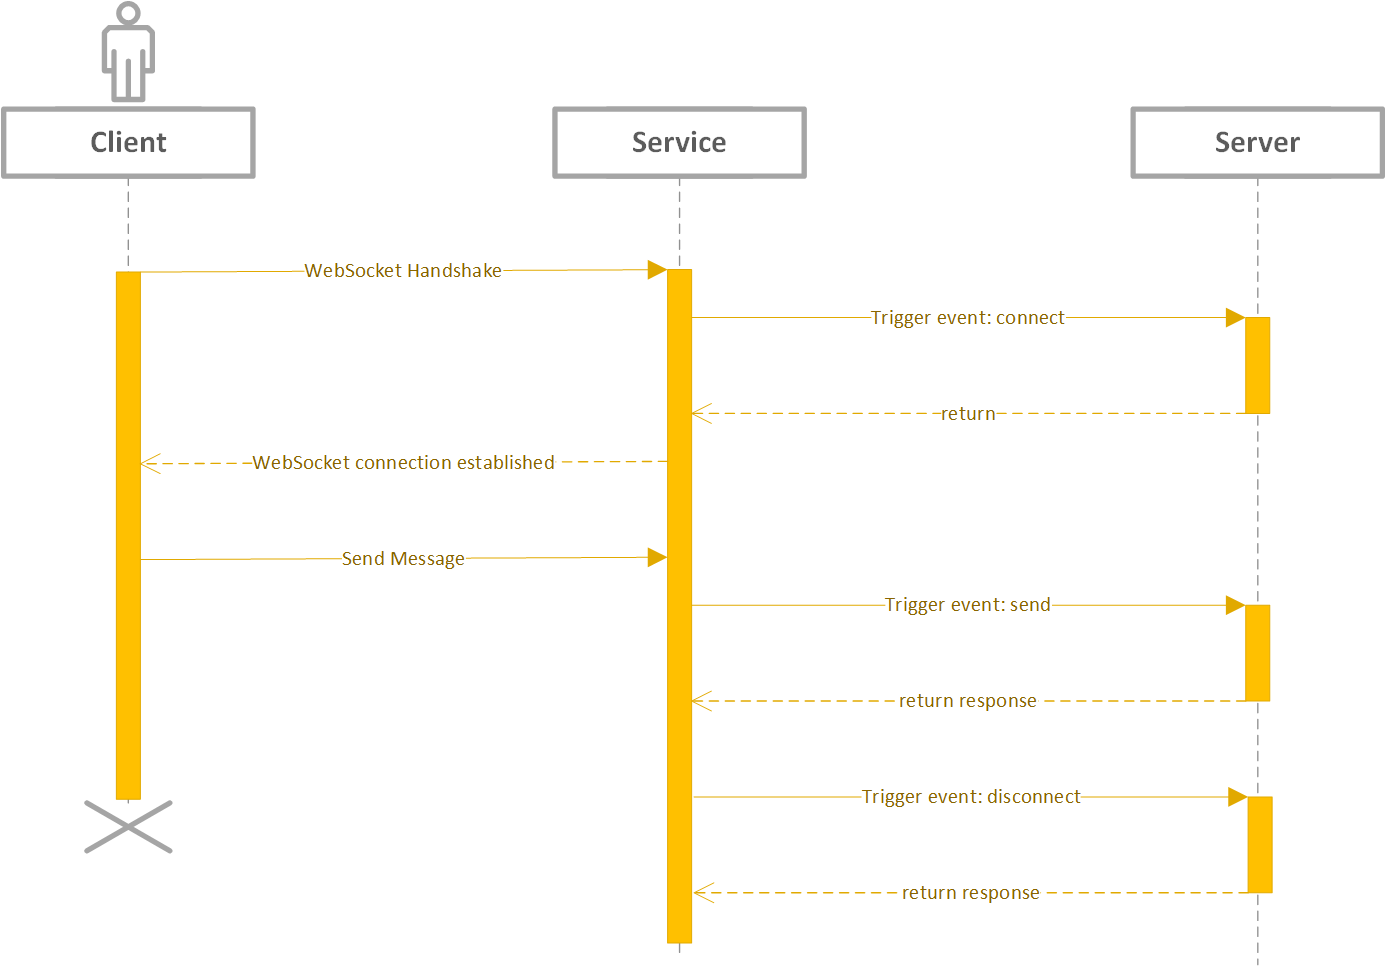
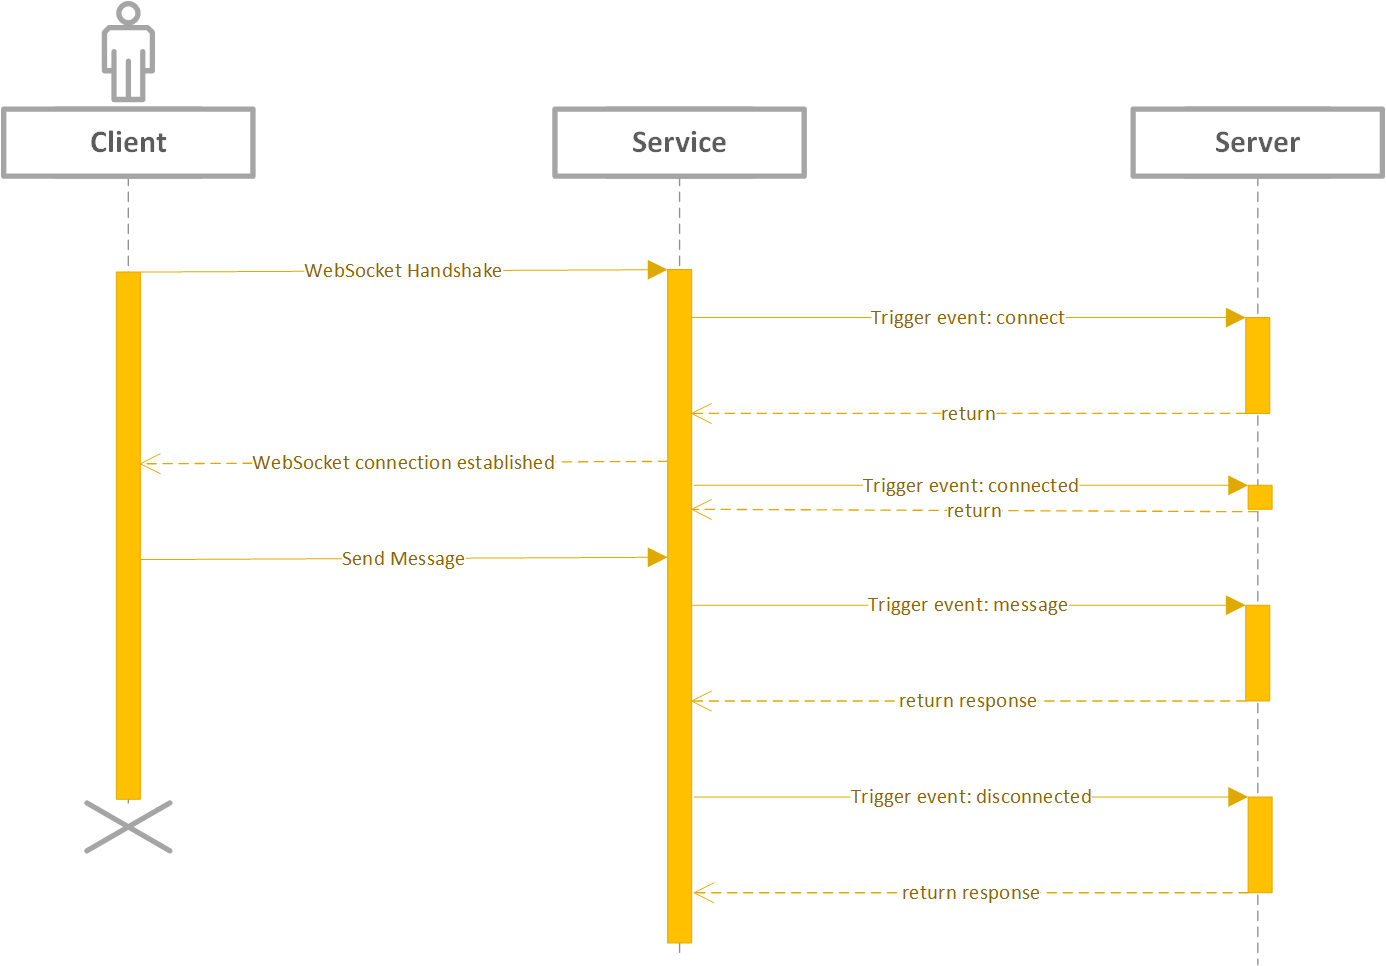
update event names

diff --git a/docs/specs/phase-1-simple-websocket-client.md b/docs/specs/phase-1-simple-websocket-client.md
@@ -22,7 +22,9 @@ Azure Web PubSub Service provides an easy way to publish/subscribe messages usin
     - [Client Auth](#client_auth)
 - [Server protocol](#server_protocol)
     - [Event handler](#event_handler)
+        - [CloudEvents HTTP protocol](./protocols/webpubsub.cloudevents.http.md)
     - [Connection manager](#connection_manager)
+        - [REST API protocol](./protocols/webpubsub.swagger.md)
 
 ## Terms
 * **Service**: Azure Web PubSub Service.
@@ -33,7 +35,7 @@ Azure Web PubSub Service provides an easy way to publish/subscribe messages usin
 
 * **Client Connection** and **ConnectionId**: A client connects to the `/client` endpoint, when connected, an unique `connectionId` is generated by the service as the unique identity of the client connection. Users can then manage the client connection using this `connectionId`. Details are described in [Client Protocol](#client_protocol) section.
 
-* **Client Events**: Events are created during the lifecycle of a client connection. For example, a simple WebSocket client connection creates an `on-connect` event when it tries to connect to the service, a `post-connect` event when it successfully connected to the service, a `message` event when it sends messages to the service, and a `post-disconnect` event when it disconnects from the service. Details about *client events* are illustrated in [Client Protocol](#client_protocol) section.
+* **Client Events**: Events are created during the lifecycle of a client connection. For example, a simple WebSocket client connection creates a `connect` event when it tries to connect to the service, a `connected` event when it successfully connected to the service, a `message` event when it sends messages to the service, and a `disconnected` event when it disconnects from the service. Details about *client events* are illustrated in [Client Protocol](#client_protocol) section.
 
 * **Event Handler**: The event handler contains the logic to handle the client events. Event handler needs to be registered and configured in the service through the portal or Azure CLI beforehand. Details are described in [Event Handler](#event_handler) section. The place to host the event handler logic is generally considered as the server-side.
 
@@ -51,13 +53,21 @@ A client connection connects to the `/client` endpoint of the service. In phase 
 A simple WebSocket client follows a client<->server architecture, as the below sequence diagram shows:
 ![Simple Client Sequence](../images/simple_client_sequence.png)
 
-1. When the client starts WebSocket handshake, the service tries to invoke the `on-connect` event handler (the server) for WebSocket handshake. Users can use this handler to interpret the WebSocket handshake, determine the subprotocol to use, auth the client, and join the client to some groups.
-2. When the client is succuessfully connected, the service invokes a `post-connect` event handler. It works as some notification and does not block the client from sending messages. Users can use this handler to do some data storage, and can response with messages sending to the client.
+1. When the client starts WebSocket handshake, the service tries to invoke the `connect` event handler (the server) for WebSocket handshake. Users can use this handler to interpret the WebSocket handshake, determine the subprotocol to use, auth the client, and join the client to some groups.
+2. When the client is succuessfully connected, the service invokes a `connected` event handler. It works as some notification and does not block the client from sending messages. Users can use this handler to do some data storage, and can response with messages sending to the client.
 2. When the client sends messages, the services triggers the `message` event to the event handler (the server) to handle the messages sent. This is a general event containing the messages sent in a WebSocket frame. User needs to dispatch the messages by their own inside this event handler.
-3. When the client disconnects, the service tries to trigger the `post-disconnect` event to the event handler (the server) once it detects the disconnect.
+3. When the client disconnects, the service tries to trigger the `disconnected` event to the event handler (the server) once it detects the disconnect.
 
-`on-connect`, `post-connect` and `post-disconnect` are called *system event*s. They are triggered by the service during the lifetime of the client connection. While `message` is called *user event*, that it is triggered by the client when the messages are sent. You may have noticed that for *system event*s we have a special pattern that the event is prefixed by `on-` or `post-`. We use `on-` and `post-` to define the property of the events. An event prefixed by `on-` is a blocking(synchronous) event that the service waits for the response of the event handler to do the next step. An event prefixed by `post-` is an unblocking(asynchronous) event that the service triggers the event handler in the background without blocking the next step.
-
+The events fall into 2 categories:
+* synchronous events (blocking)
+    Synchronous events block the client workflow. When such event trigger fails, the service drops the clients.
+    * `connect`
+    * `message`
+* asynchronous events (un-blocking)
+    Asynchronous events do not block the client workflow, it acts as some notification to the upstream event handler. When such event trigger fails, the service logs the error detail.
+    * `connected`
+    * `disconnected`
+    
 #### Scenarios:
 Such connection can be used in a typical client-server architecture, that the client sends messages to the server, and the server handles incoming messages using [Event Handlers](#event_handler). A typical usage would be [GraphQL Subscriptions](https://dgraph.io/docs/graphql/subscriptions/), and a sample can be found [here](). It can also be used when customers leverage existing [subprotocols](https://www.iana.org/assignments/websocket/websocket.xml) in their application logic, for example, `wamp` subprotocol. A sample usage can be found [here]().
 
@@ -93,7 +103,7 @@ In general, server protocol contains 2 roles:
 <a name="event_handler"></a>
 
 ### Event handler
-The event handler handles the upcoming client events. Event handlers need to be registered and configured in the service through portal or Azure CLI beforehand so that when a client event is triggered, the service can identify if the event is expected to be handled. In Phase 1, we use `PUSH` mode to invoke the event handler: that the event handler as the server side, exposes public accessible endpoint for the service to invoke when the event is triggered. It acts as a **webhook**. It leverages [CloudEvents HTTP protocol binding](https://github.com/cloudevents/spec/blob/v1.0.1/http-protocol-binding.md) and the detailed protocol is described in [webpubsub.cloudevents.http](./protocols/webpubsub.cloudevents.http.md), for every event, it formulates an HTTP POST request to the registered upstream and expects an HTTP response.
+The event handler handles the upcoming client events. Event handlers need to be registered and configured in the service through portal or Azure CLI beforehand so that when a client event is triggered, the service can identify if the event is expected to be handled. In Phase 1, we use `PUSH` mode to invoke the event handler: that the event handler as the server side, exposes public accessible endpoint for the service to invoke when the event is triggered. It acts as a **webhook**. It leverages [CloudEvents HTTP protocol binding](https://github.com/cloudevents/spec/blob/v1.0.1/http-protocol-binding.md) and the detailed protocol is described in [WebPubSub CloudEvents Protocol](./protocols/webpubsub.cloudevents.http.md), for every event, it formulates an HTTP POST request to the registered upstream and expects an HTTP response.
 ![Event PUSH](../images/event_push.png)
 
 <a name="connection_manager"></a>

diff --git a/docs/specs/phase-2-subprotocol.md b/docs/specs/phase-2-subprotocol.md
@@ -184,13 +184,15 @@ client2.onopen = e => {
 };
 ```
 ### Client events
-These group related actions generate 2 events each accordingly:
-`on-publish`
-`post-publish`
-`on-join`
-`post-join`
-`on-leave`
-`post-leave`
+These group related actions generate the following events:
+* Synchronous events
+    * `publish`
+    * `join`
+    * `leave`
+* Asynchronous events
+    * `published`
+    * `joined`
+    * `left`
 
 <a name="client_auth"></a>
 
@@ -213,7 +215,7 @@ Client roles only applies for the [`json.webpubsub.azure.v1` subprotocol](#comma
 
 Client roles can be assigned:
 1. when the client connects with an auth token, and 
-2. can be granted with the `on-connect` event handler, and also, 
+2. can be granted with the `connect` event handler, and also, 
 3. can be granted through [server protocol](#connection_manager).
 
 #### Client publish
@@ -222,16 +224,16 @@ The below graph describes the workflow when the client tries to publish messages
 ![Client Publish Workflow](../images/client_publish_workflow.png)
 
 When the client tries to publish messages to a group: 
-1. The service checks if the `on-publish` event is registered for the client,
+1. The service checks if the `publish` event is registered for the client,
 2. If not, a client with the role `webpubsub.group.publish` can publish.
 3. If the event is registered, the service invokes the event handler and respect the response of the event handler to decide if the action is allowed.
 4. The service publishes the message to the group
-5. If `post-publish` is registered, the service invokes the `post-publish` event handler.
+5. If `published` is registered, the service invokes the `published` event handler.
 
-Please note that **ONLY** **METADATA** for the `Publish` is sent to the `on-publish` event handler, the actual message to be published is not sent to the event handler.
+Please note that **ONLY** **METADATA** for the `Publish` is sent to the `publish` event handler, the actual message to be published is not sent to the event handler.
 
 When the client tries to join/leave a group, the workflow is similar:
-1. The service checks if the `on-join`/`on-leave` event is registered for the client
+1. The service checks if the `join`/`leave` event is registered for the client
 2. If not, a client with the role `webpubsub.group.join` can join/leave the group.
 3. If the event is registered, the service invokes the event handler and respect the response of the event handler to decide if the action is allowed.
 
